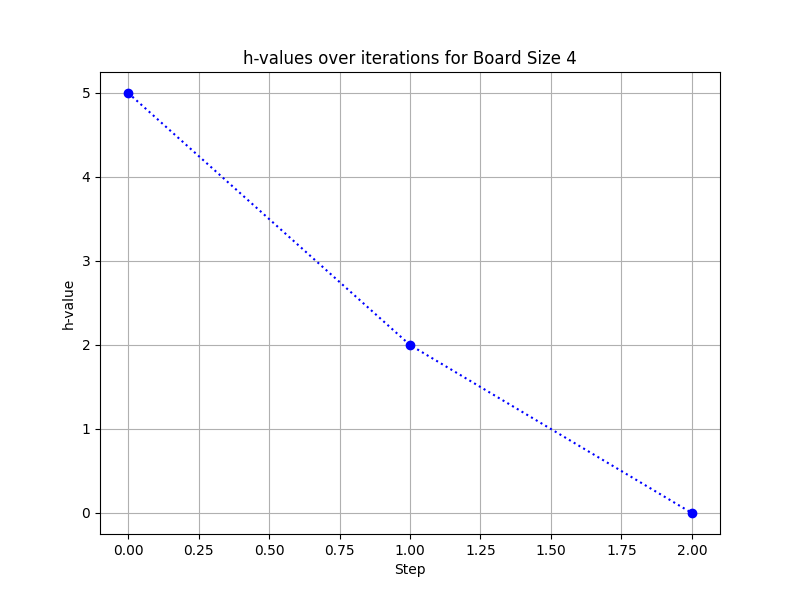
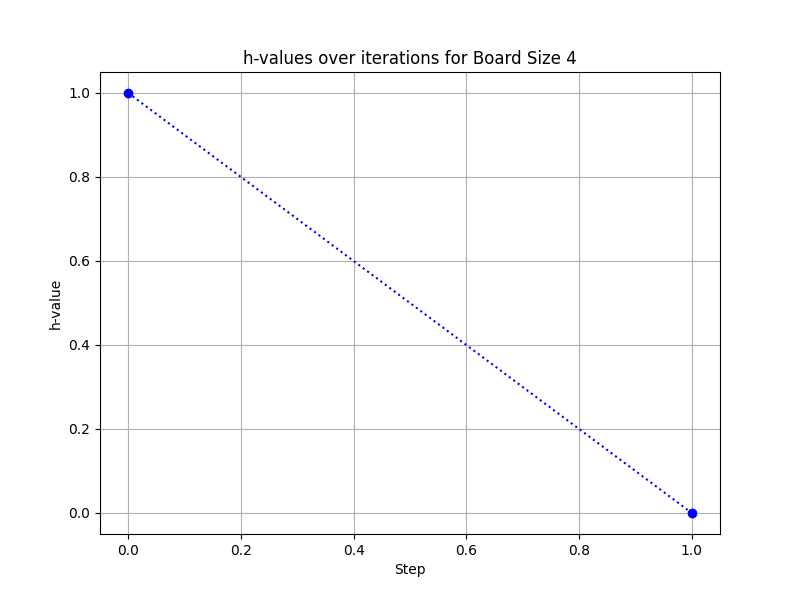
Improved simulated annealing

diff --git a/tp5-busquedas-locales/code/local_search_algo/simulated_annealing/simulated_annealing.py b/tp5-busquedas-locales/code/local_search_algo/simulated_annealing/simulated_annealing.py
@@ -1,29 +1,30 @@
 from chess_board_state import ChessBoardState
-from local_search_algo.utils import random_successor_chess_board, all_successors
+from local_search_algo.utils import random_successor_chess_board
 from local_search_algo.local_search_result import LocalSearchResult
 import random
 import time
 import math
 
-
 def schedule(t) -> float:
-
-    return max(0.0, 1.0 / t)
-    # return 1.0 / t
+    # Slower cooling schedule
+    return max(1.0 / math.log(t + 1), 1e-10)
 
 def simulated_annealing(
         initial_board: ChessBoardState,
-        maximum_states: int = 30) -> LocalSearchResult:
+        maximum_states: int = 30,
+        maximum_shoulder_iterations: int = 10) -> LocalSearchResult:
 
     search_result = LocalSearchResult()
     t0 = time.time()
     current_board = initial_board
+    traversed_states = 1
+    iterations = 0
+    shoulder_counter = 0
 
-    for t in range(1, maximum_states + 1):
-        search_result.h_values.append(current_board.cached_threats)
+    while traversed_states < maximum_states and iterations < maximum_states * 5:
+        iterations += 1
 
-        search_result.traversed_states += 1
-        T = schedule(t)
+        T = schedule(iterations)
 
         if T == 0:
             break
@@ -34,24 +35,45 @@ def simulated_annealing(
         # Computes all the possible successors for the current state
         successor_board = random_successor_chess_board(current_board)
 
+        # If the shoulder maximum count is reached, ensures that the successor
+        # has a different value
+        while shoulder_counter == maximum_shoulder_iterations:
+            if successor_board.cached_threats == current_board.cached_threats:
+                successor_board = random_successor_chess_board(current_board)
+            else:
+                break
+
         delta_e = successor_board.cached_threats - current_board.cached_threats
 
-        # When successor gets closer to local minimum.
-        # By adding equals, it moves in shoulders
+        next_board = None
+
+        # When successor gets closer to local minimum or same (shoulders)
         if delta_e <= 0.0:
-            current_board = successor_board
-            print(f"Picking better {current_board.cached_threats}")
-
+            next_board = successor_board
+            # print(f"Picking better {current_board.cached_threats}")
         else:
-            # Picks successor with some probability in [0, 1.0]
-            probability = math.exp(-delta_e * 0.01 / T)
+            probability = math.exp(-delta_e / T)
+            # print(f"T: {T}, delta_e: {delta_e}, probability: {probability}")
 
-            print(probability)
             if random.random() < probability:
-                current_board = successor_board
-                print(f"Picking worse {current_board.cached_threats}")
+                next_board = successor_board
+                # print(f"Picking worse {current_board.cached_threats}")
+            else:
+                next_board = current_board
 
+        if next_board.cached_threats == current_board.cached_threats:
+            shoulder_counter += 1
+        else:
+            shoulder_counter = 0
+
+        # Only updates when state is changed
+        if current_board != next_board:
+            traversed_states += 1
+            search_result.h_values.append(current_board.cached_threats)
+
+        current_board = next_board
 
     search_result.board = current_board
     search_result.time_taken = time.time() - t0
+    search_result.traversed_states = traversed_states
     return search_result

diff --git a/tp5-busquedas-locales/code/main.py b/tp5-busquedas-locales/code/main.py
@@ -98,9 +98,9 @@ def test_and_save():
     queen_counts = [4, 8, 10, 12, 15]
 
     algorithms = {
-        "hill_climb": lambda board: hill_climb(board, maximum_states=100, maximum_shoulder_iterations=20),
-        "random_restart_hill_climb": lambda board: random_restart_hill_climb(board, maximum_states=100, maximum_shoulder_iterations=20),
-        "simulated_annealing": lambda board: simulated_annealing(board, maximum_states=100)
+        "hill_climb": lambda board: hill_climb(board, maximum_states=100, maximum_shoulder_iterations=10),
+        "random_restart_hill_climb": lambda board: random_restart_hill_climb(board, maximum_states=100, maximum_shoulder_iterations=10),
+        "simulated_annealing": lambda board: simulated_annealing(board, maximum_states=100, maximum_shoulder_iterations=10)
     }
 
     results = {algorithm_name: [] for algorithm_name in algorithms.keys()}
@@ -120,3 +120,8 @@ def test_and_save():
 
 if __name__ == "__main__":
     test_and_save()
+
+    # board = ChessBoardState(8)
+    # simulated_annealing_test(board)
+
+
